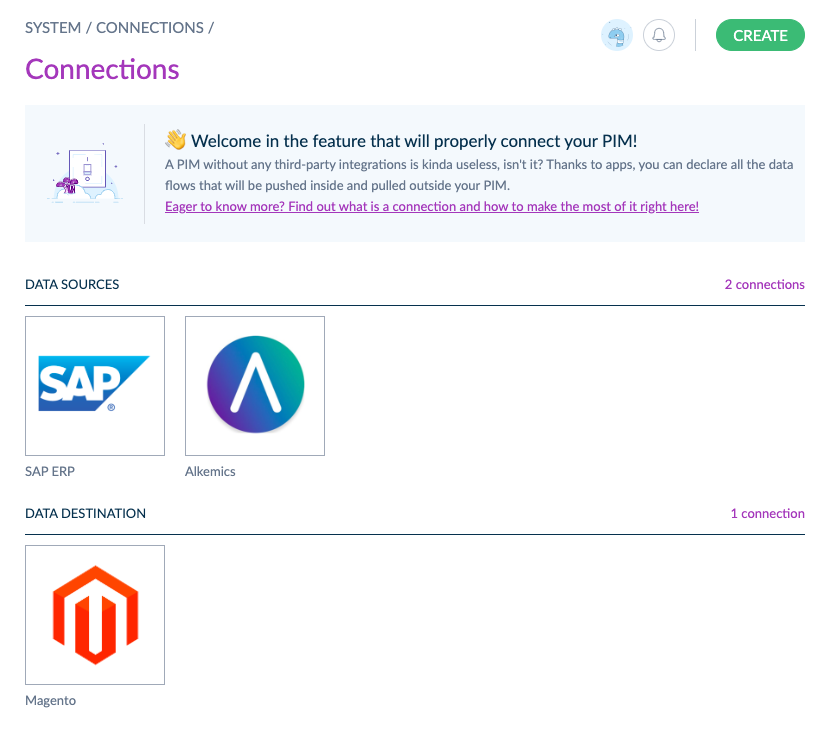
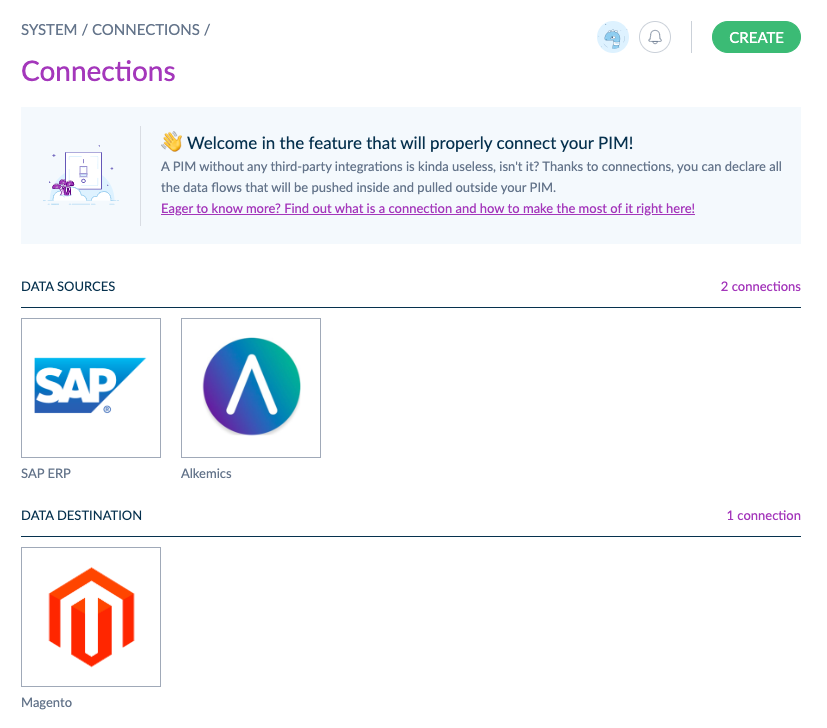
Add some screenshots

diff --git a/content/md/what-is/what-is-a-connection.md b/content/md/what-is/what-is-a-connection.md
@@ -17,7 +17,10 @@ Maybe, you also need to connect your PIM to a translation tool to enrich your da
 
 In the end, all those data flows represent a great deal of connections around your PIM.
 
-Connections are here to help you boost your connectivity. With connections, you can easily know which data flows surround your PIM. In fact, a connection identifies one particular data flow. It can be seen as a door to the PIM for your connection.
+![A PIM can have many connections to third-parties](../img/pim-with-many-connections.png)
+
+The PIM **Connection** notion is here to help you boost your connectivity. :rocket:  
+With Connections, you can easily know which data flows surround your PIM. In fact, a connection identifies one particular data flow. It can be seen as a door to the PIM for your third-party connector.
 
 ## A real connectivity example
 
@@ -44,7 +47,7 @@ You can easily know to which third-parties your PIM is connected to, thanks to t
 
 If we go back to our previous example, here is what the `Connections` screen will look like in this case.
 
-![Connections screen](connections-screen.png) <!-- TODO -->
+![Connections screen](../img/connections-screen.png)
 
 ::: info
 To declare new connection around your PIM, follow the [simple steps described here](manage-your-connections.html#create-a-connection).

diff --git a/content/md/connectivity/manage-your-connections.md b/content/md/connectivity/manage-your-connections.md
@@ -113,11 +113,11 @@ To access the client id, the secret and the username, go to `System` / `Connecti
 
 You can easily copy/paste the credentials by clicking on the button next to them.
 
-![Copy/paste credentials](../img/copy_paste_credentials.png)
+![Copy/paste credentials](../img/copy-paste-credentials.png)
 
 The password is only showed once to you, just after the connection creation. So, make sure you save it somewhere.
 
-![Password is showed only once](password_showed_only_once.png) <!-- TODO -->
+![Password is showed only once](password-showed-only-once.png) <!-- TODO -->
 
 ::: tips
 You forgot your password? Don't worry, you can regenerate a new one. Take a look at the [Regenerate your connection password](#regenerate-your-connection-password) section.
